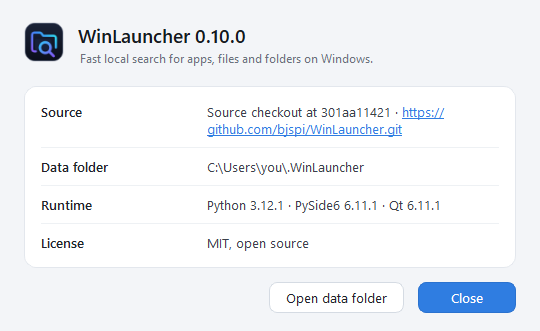
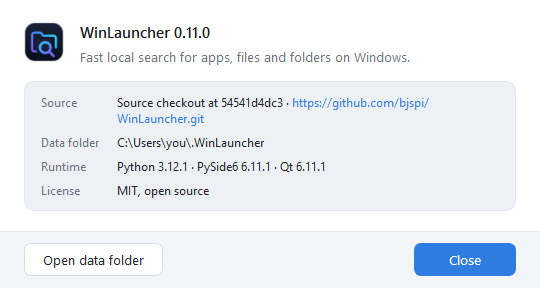
Release 0.11.0: message dialogs in WinLauncher's own look
- Every message and question uses one dialog style: icon badge, heading,
  muted text, folded details and a button bar with a filled main action.
- About, Index status and update dialogs share that look; destructive
  questions default to Cancel.
- The details button reads "Hide …" while the details are shown.

diff --git a/winlauncher/__init__.py b/winlauncher/__init__.py
@@ -1,3 +1,3 @@
 """WinLauncher: an independent, local Windows launcher."""
 
-__version__ = "0.10.0"
+__version__ = "0.11.0"

diff --git a/README.md b/README.md
@@ -77,7 +77,7 @@ Explorer & dialogs**.
 a `winlauncher` command that starts without a console window:
 
 ```powershell
-pipx install "winlauncher[rust] @ git+https://github.com/bjspi/WinLauncher.git@v0.10.0"
+pipx install "winlauncher[rust] @ git+https://github.com/bjspi/WinLauncher.git@v0.11.0"
 winlauncher --show
 ```
 
